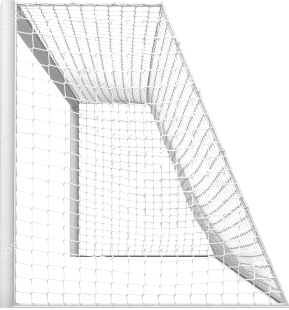
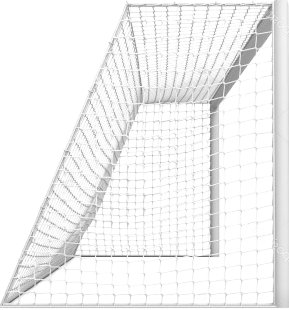
Added nets in correct location

diff --git a/initialization/setup.go b/initialization/setup.go
@@ -20,7 +20,8 @@ func Setup(screenWidth, screenHeight float64, gravity linalg.Vector) physics.Phy
 	}
 	var crossbar1 shapes.Polygon
 	crossbar1.Initialize(crossbar1_center, crossbar1_vertices)
-
+	crossbar1.SetImage("left_net.png")
+	crossbar1.SetImageDimensions(80, 50, &point.Point{X: screenWidth - (50 / 2), Y: screenHeight - (80 / 2)})
 	crossbarBody := physics.PhysicsBody{
 		Shape: &crossbar1,
 		Dynamic: dynamics.DynamicProperties{
@@ -45,7 +46,8 @@ func Setup(screenWidth, screenHeight float64, gravity linalg.Vector) physics.Phy
 	var crossbar2 shapes.Polygon
 	crossbar2.Initialize(crossbar2_center, crossbar2_vertices)
 	crossbar2.SetImage("right_net.png")
-	crossbar2.SetImageDimensions(77.5, 25.5, &point.Point{X: screenWidth - (25.5 / 2), Y: screenWidth - (77.5 / 2)})
+	crossbar2.SetImageDimensions(80, 50, &point.Point{X: (50 / 2), Y: screenHeight - (80 / 2)})
+
 	crossbarBody2 := physics.PhysicsBody{
 		Shape: &crossbar2,
 		Dynamic: dynamics.DynamicProperties{
